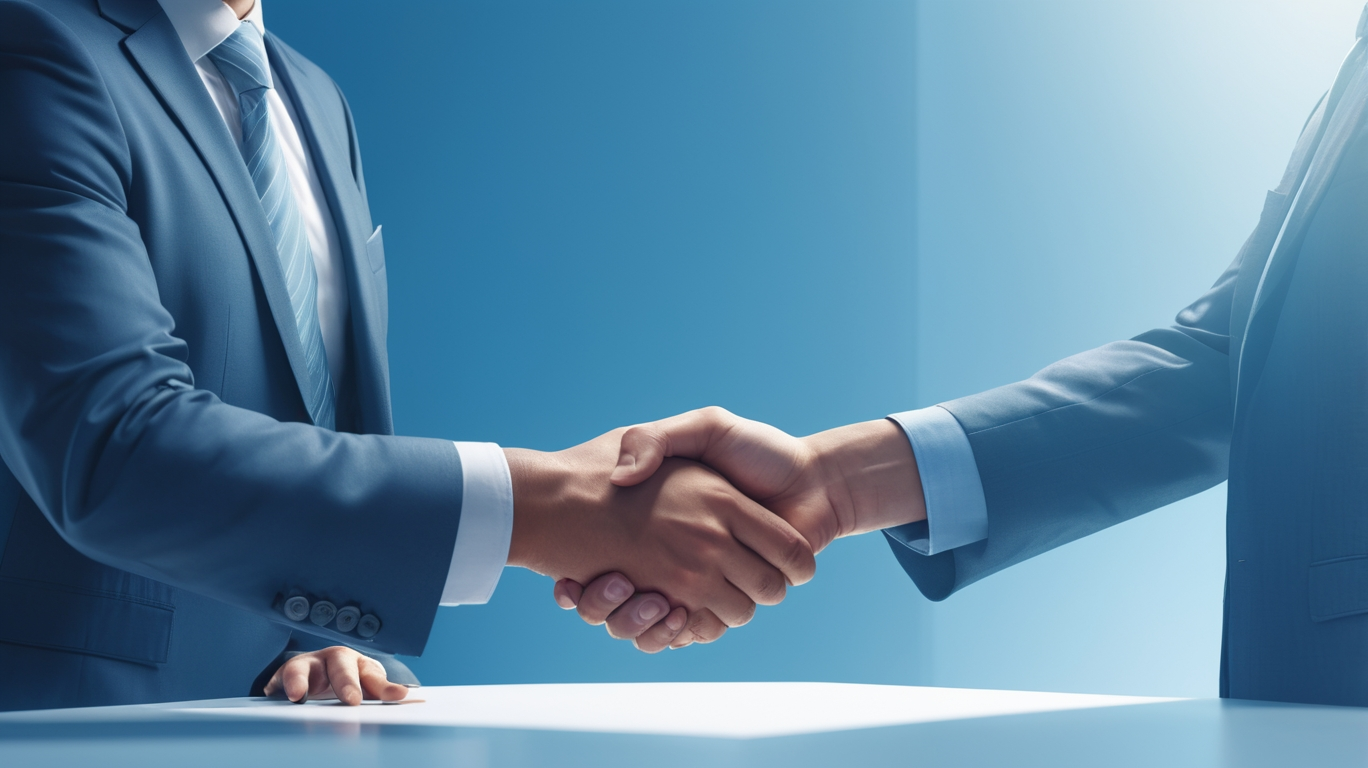
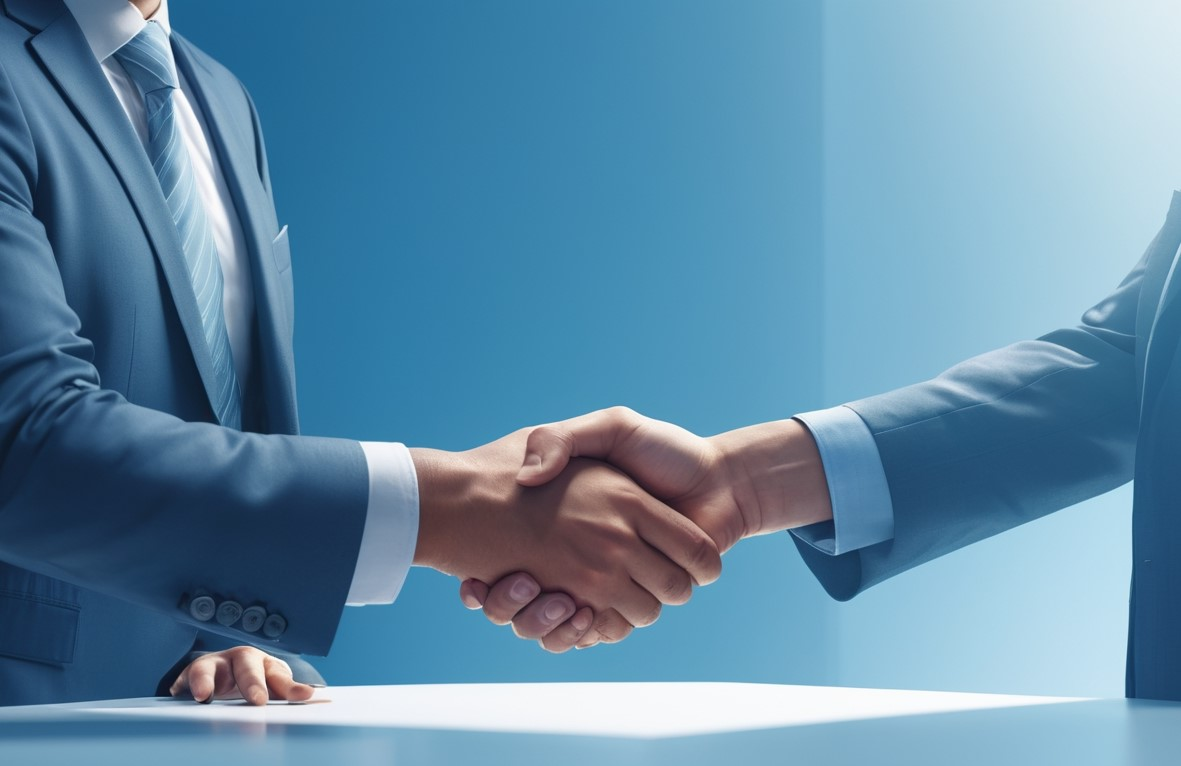
background image fixed

Changed region(s): [[0.0, 0.0, 0.6097, 0.9909], [0.5182, 0.0, 1.0, 1.0], [0.6706, 0.0, 0.7011, 0.0601]]

diff --git a/home-frontend/src/styles/hero.css b/home-frontend/src/styles/hero.css
@@ -5,12 +5,18 @@
     display: flex;
     align-items: flex-start;
     justify-content: flex-start;
-    padding: 120px 80px 0 80px; /* Adjusted padding for alignment */
-    background-image: url('../assets/home.jpg');
-    background-size: cover;
+    padding: 120px 90px 0 110px; /* Adjusted padding for alignment */
+    /* background-image: url('../assets/home.jpg'); /* Ensure this path is correct */
+    background-size: 104% 135%;
     background-position: center;
     background-repeat: no-repeat;
-    transition: background-image 1s ease; /* Smooth transition for background on scroll */
+    transition: opacity 0.3s ease, background-image 0.2s ease;
+    opacity: 1; /* Initial opacity */
+  }
+  
+  /* Fading Effect on Scroll */
+  .hero-section.scrolled {
+    opacity: 0.5; /* Reduced opacity on scroll */
   }
   
   /* Blue Transparent Overlay */
@@ -20,14 +26,14 @@
     left: 0;
     right: 0;
     bottom: 0;
-    background-color: rgba(0, 0, 139, 0.5); /* Transparent blue overlay */
+    background-color: rgba(0, 0, 139, 0.372); /* Transparent blue overlay */
     z-index: 1;
   }
   
   /* Content Layer */
   .hero-content {
     position: relative;
-    z-index: 2;
+    z-index: 3;
     color: white;
     text-align: left;
     max-width: 600px;
@@ -49,10 +55,10 @@
   
   /* Title Highlight "LK" */
   .hero-title .highlight {
-    font-size: 3.5rem; /* Slightly smaller "LK" */
-    margin-left: 5px;
-    transform: translateY(-15px); /* Raised "LK" */
-    font-weight: 900;
+    font-size: 1.9rem; /* Slightly smaller "LK" */
+    margin-left: 10px;
+    transform: translateY(-38px); /* Raised "LK" */
+    font-weight: 600;
     text-shadow: 0 0 30px rgba(255, 255, 255, 1); /* Intense glow for "LK" */
     transition: transform 0.3s ease-in-out; /* Smooth animation */
   }
@@ -93,8 +99,8 @@
   }
   
   .hero-buttons button {
-    margin-right: 15px;
-    padding: 10px 20px;
+    margin-right: 10px;
+    padding: 8px 45px;
     font-size: 1.2rem;
     font-weight: 600;
     border-radius: 0; /* Removed rounding for square shape */
@@ -126,12 +132,6 @@
     border: 2px solid lightblue;
   }
   
-  /* Scroll-Triggered Fade Effect for Hero Section Background */
-  .hero-section.scrolled {
-    background-image: url('../assets/home.jpg'); /* Change background when scrolled */
-    opacity: 0.8; /* Slight fade on scroll */
-  }
-  
   /* Parallax Effect */
   @keyframes parallax {
     0% {
@@ -155,7 +155,10 @@
   }
   
   /* Apply animations to title and subtitles */
-  .hero-title, .hero-subtitle-large, .hero-subtitle-small, .join-now {
+  .hero-title,
+  .hero-subtitle-large,
+  .hero-subtitle-small,
+  .join-now {
     animation: fadeInUp 1s ease-out;
   }
   

diff --git a/home-frontend/src/components/HeroSection.jsx b/home-frontend/src/components/HeroSection.jsx
@@ -1,11 +1,36 @@
-import React from 'react';
+import React, { useState, useEffect } from 'react';
 import '../styles/hero.css';
+import homeImage from '../assets/home.jpg';
 
 const HeroSection = () => {
+  const [scrollOpacity, setScrollOpacity] = useState(1);
+
+  useEffect(() => {
+    const handleScroll = () => {
+      const maxScroll = 300; // Adjust to control how quickly the fade happens
+      const scrollTop = window.scrollY;
+      const opacity = Math.max(1 - scrollTop / maxScroll, 0); // Decrease opacity based on scroll
+      setScrollOpacity(opacity);
+    };
+
+    window.addEventListener('scroll', handleScroll);
+
+    return () => {
+      window.removeEventListener('scroll', handleScroll);
+    };
+  }, []);
+
   return (
-    <section className="hero-section">
+    <section
+  className="hero-section"
+  style={{
+    // backgroundImage: `url(${homeImage})`, // Imported image path
+    opacity: scrollOpacity,
+  }}
+    >
       {/* Background Overlay */}
       <div className="hero-overlay"></div>
+
       {/* Content */}
       <div className="hero-content">
         <h1 className="hero-title">

diff --git a/home-frontend/src/styles/global.css b/home-frontend/src/styles/global.css
@@ -3,24 +3,27 @@
     margin: 0;
     padding: 0;
     box-sizing: border-box;
-  }
-  
-  body {
+}
+
+body {
     font-family: Arial, sans-serif;
-    background-color: #f4f4f4;
+    background-image: url('../assets/homefull.png');
+    background-size: 100% 130%; /* Shrinks the height by 10% while keeping the width at 100% */
+    background-position: top center; /* Aligns the image to the top */
+    background-repeat: no-repeat; /* Prevents the image from repeating */
+    background-attachment: scroll; /* Ensures the image scrolls with the page */
     color: #333;
     line-height: 1.6;
-  }
-  
-  button {
+}
+
+button {
     cursor: pointer;
     border: none;
     outline: none;
     transition: background-color 0.3s ease;
-  }
-  
-  h2 {
+}
+
+h2 {
     font-size: 2rem;
     margin-bottom: 20px;
-  }
-  
+}

diff --git a/home-frontend/src/styles/Navbar.css b/home-frontend/src/styles/Navbar.css
@@ -4,7 +4,7 @@
     top: 20px;
     left: 20px;
     right: 20px;
-    padding: 20px 20px;
+    padding: 10px 10px;
     background-color: rgba(168, 178, 246, 0.177); /* Slight transparency */
     border-radius: 25px;
     display: flex;
@@ -15,7 +15,7 @@
   }
   
   .navbar.scrolled {
-    padding: 8px 8px;
+    padding: 4px 4px;
     padding-left: 20px;
     background-color: rgba(173, 179, 255, 0.251); /* Less transparency when scrolled */
   }
